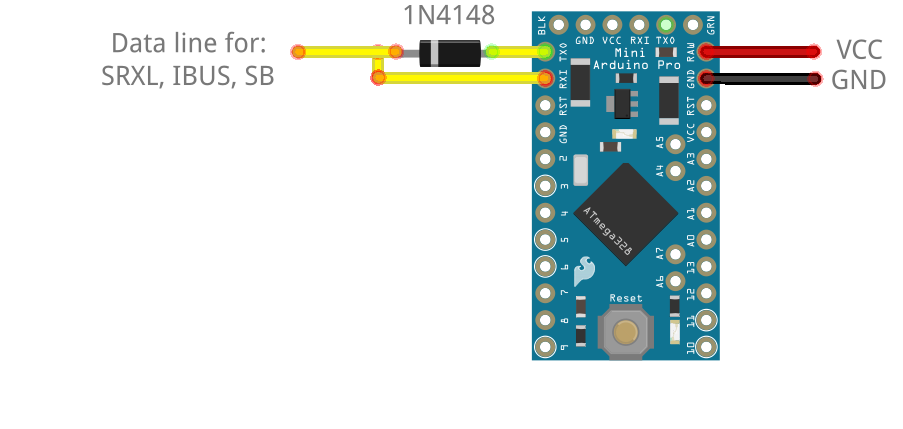
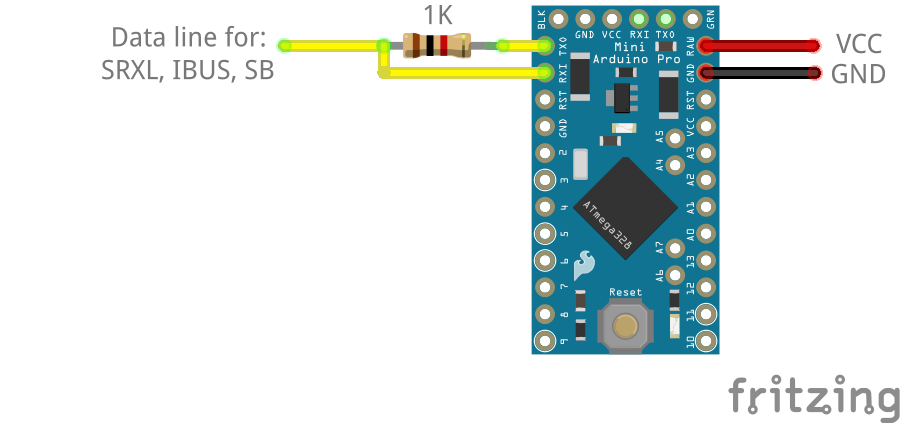
Remove diode

Changed region(s): [[0.093, 0.0, 0.9922, 0.8605], [0.8062, 0.8913, 1.0, 1.0]]

diff --git a/README.md b/README.md
@@ -73,13 +73,13 @@ ATmega boards at 5v (16Mhz) may not read properly serial port when using ESC ser
 | XBUS NPN clock stretch<sup>(4)</sup> | 13 | 13 | 13 | PB5(9) | 13 |
 
 (1) with 3.3k pull up resistor  
-(2) diode 1N4148. Note the inverted orientation of the diode for Frsky and SBUS. Alternatively 1k to 3.3k resistor can be used  
+(2) 1k resistor
 (3) If using i2c_t3 library connect I2C sensor to pins 23 (SDA1) and 22 (SCL1)  
 (4) optional. Only if needed. If connected, enable XBUS_CLOCK_STRECH_SWITCH in config.h  
 (5) If using serial ESC  
 (6) If using GPS  
-(7) If using serial ESC and GPS. If using a diode, the diode line towards the pin  
-(8) If using serial ESC or GPS. If using a diode, the diode line towards the pin  
+(7) If using serial ESC and GPS  
+(8) If using serial ESC or GPS
 
 
 ## 2. Receiver protocol
@@ -100,10 +100,10 @@ Depending on the receiver protocol connect to the Rx as follows
 
 ### ATmega boards
 
-1N4148 diode or 1k to 3.3k resistor
+1k resistor
 
 <p align="center"><img src="./images/frsky_smartport_sbus.png" width="400"><br>
-<i>Frsky Smartport, SBUS</br>or SRXL, IBUS, SB, Jeti Ex Bus and boards with no available UARTS, as being used for ESC serial or GPS (if using a diode, then invert orientation) </i><br><br></p>
+<i>Frsky Smartport, SBUS</br>or SRXL, IBUS, SB, Jeti Ex Bus and boards with no available UARTS, as being used for ESC serial or GPS</i><br><br></p>
 
 <p align="center"><img src="./images/srxl_ibus_sb.png" width="460"><br>
 <i>SRXL, IBUS, SB, Jeti Ex Bus</i><br><br></p>
